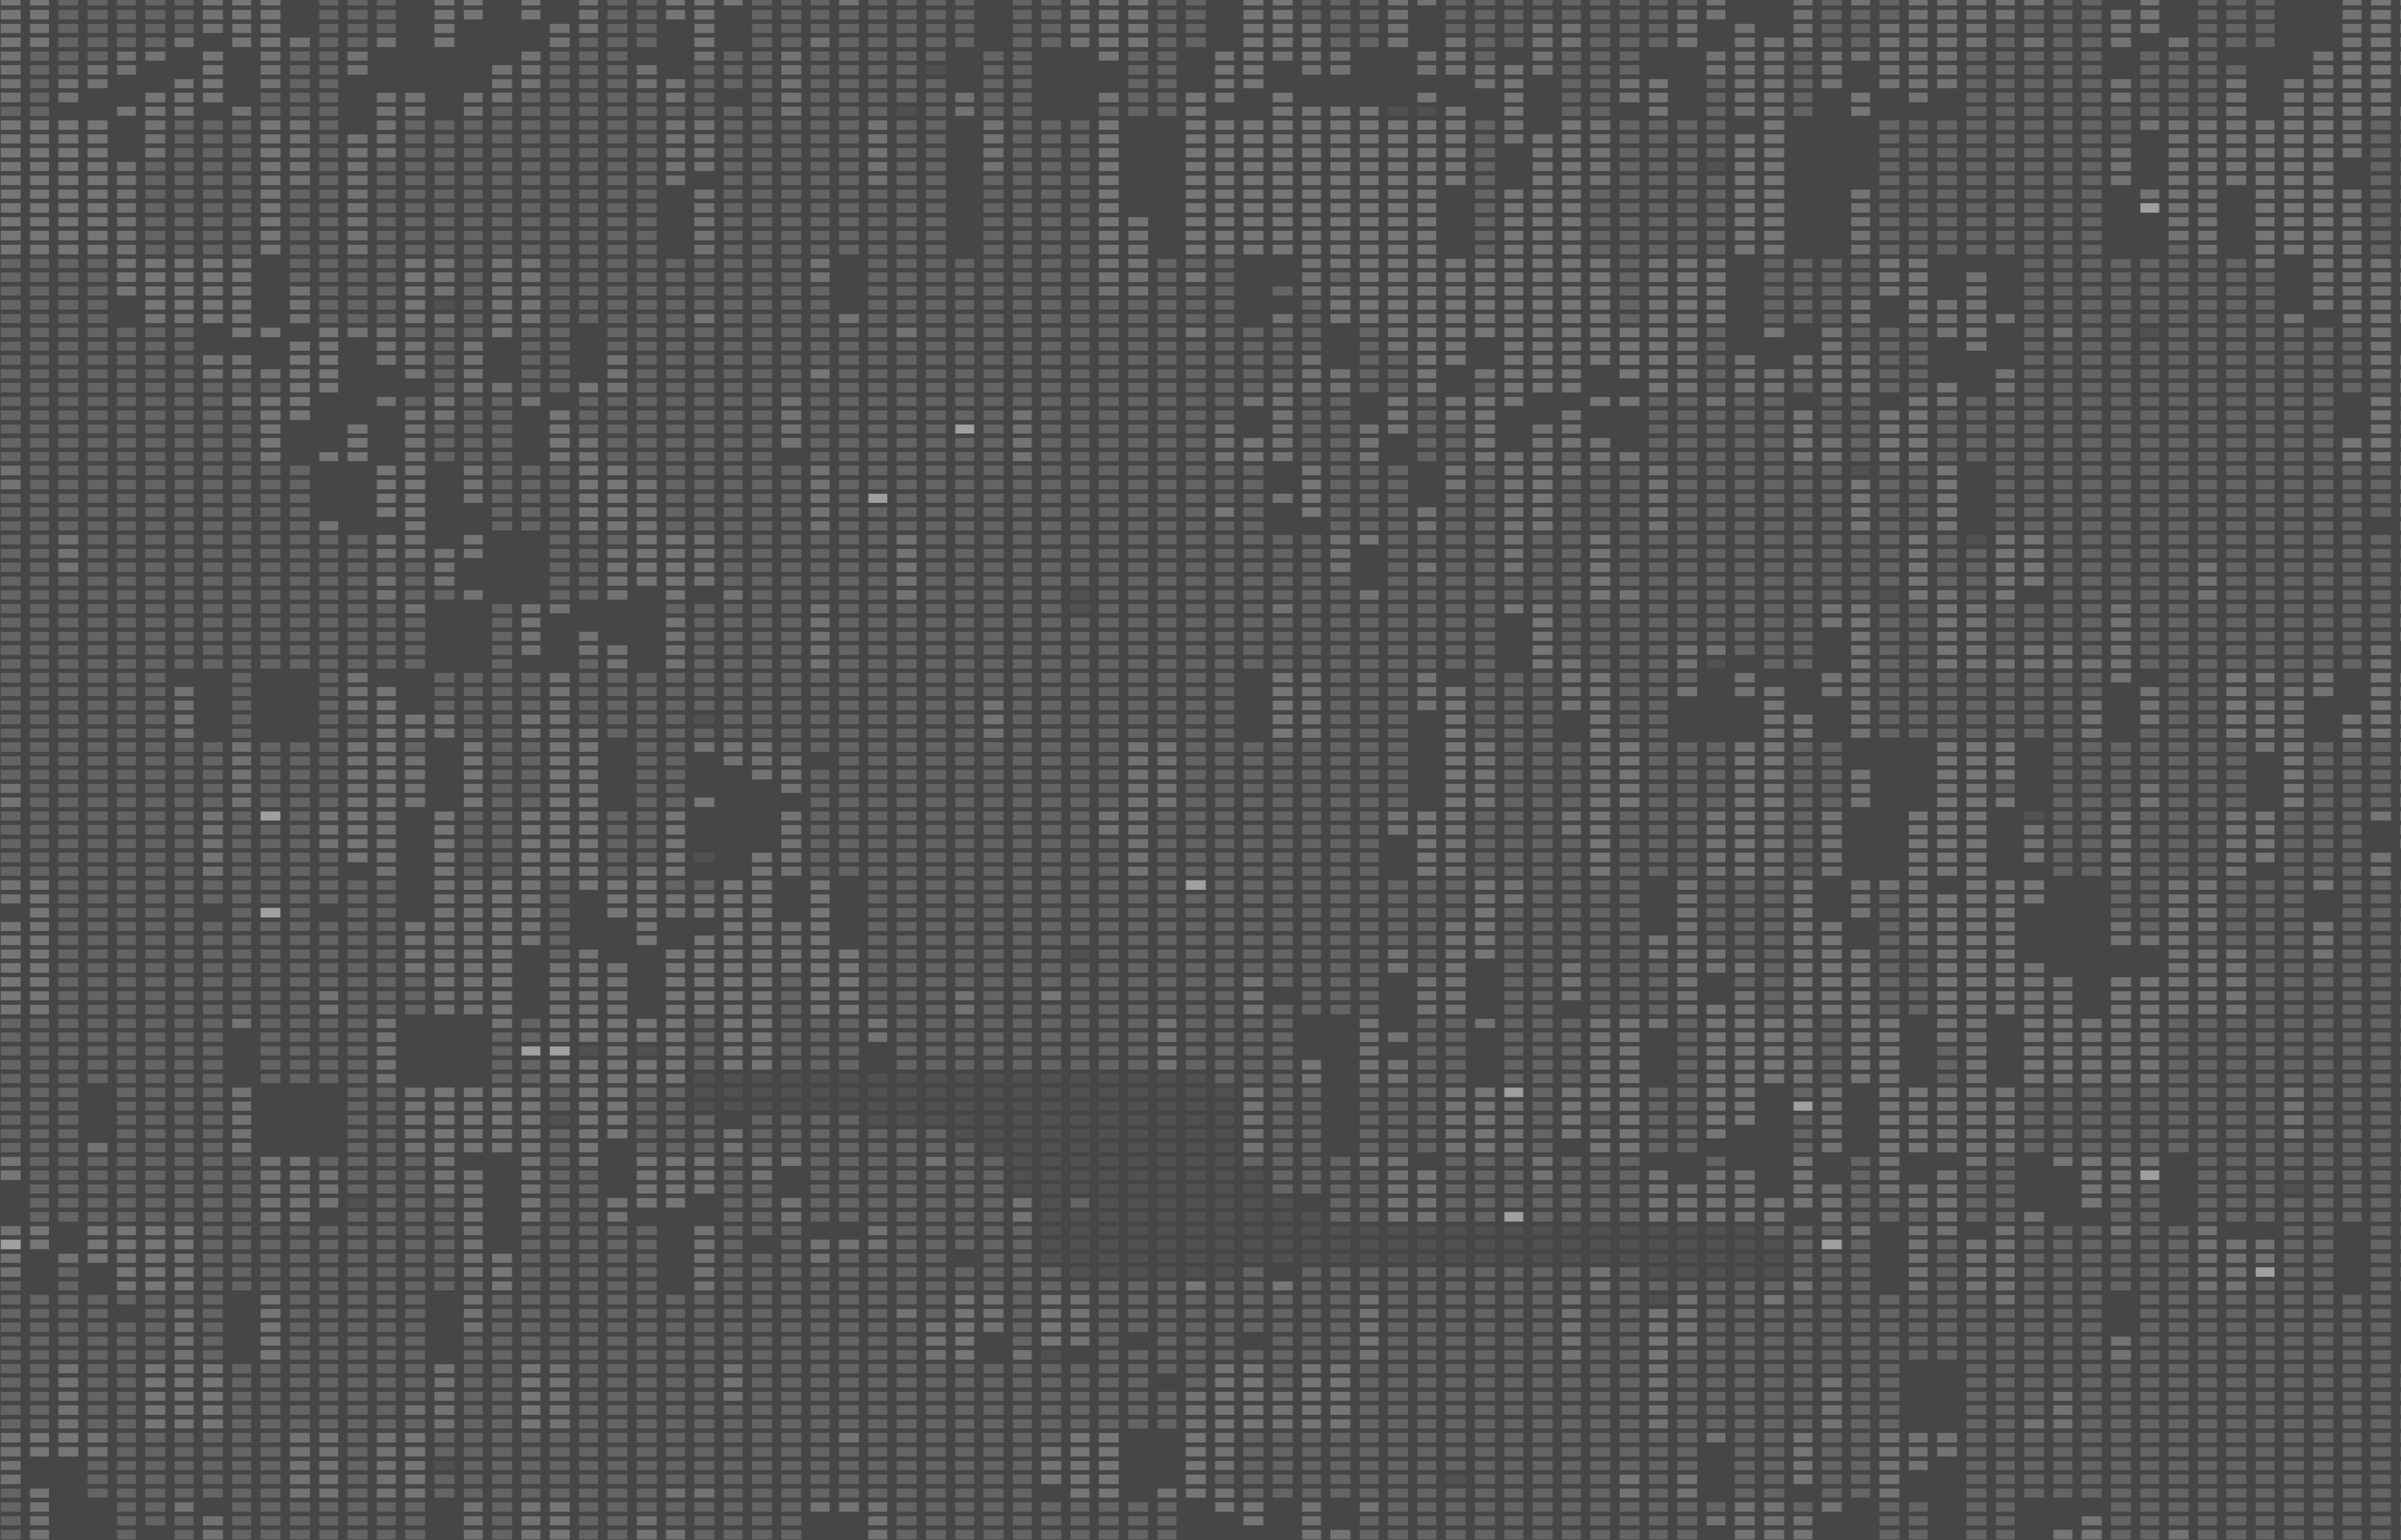
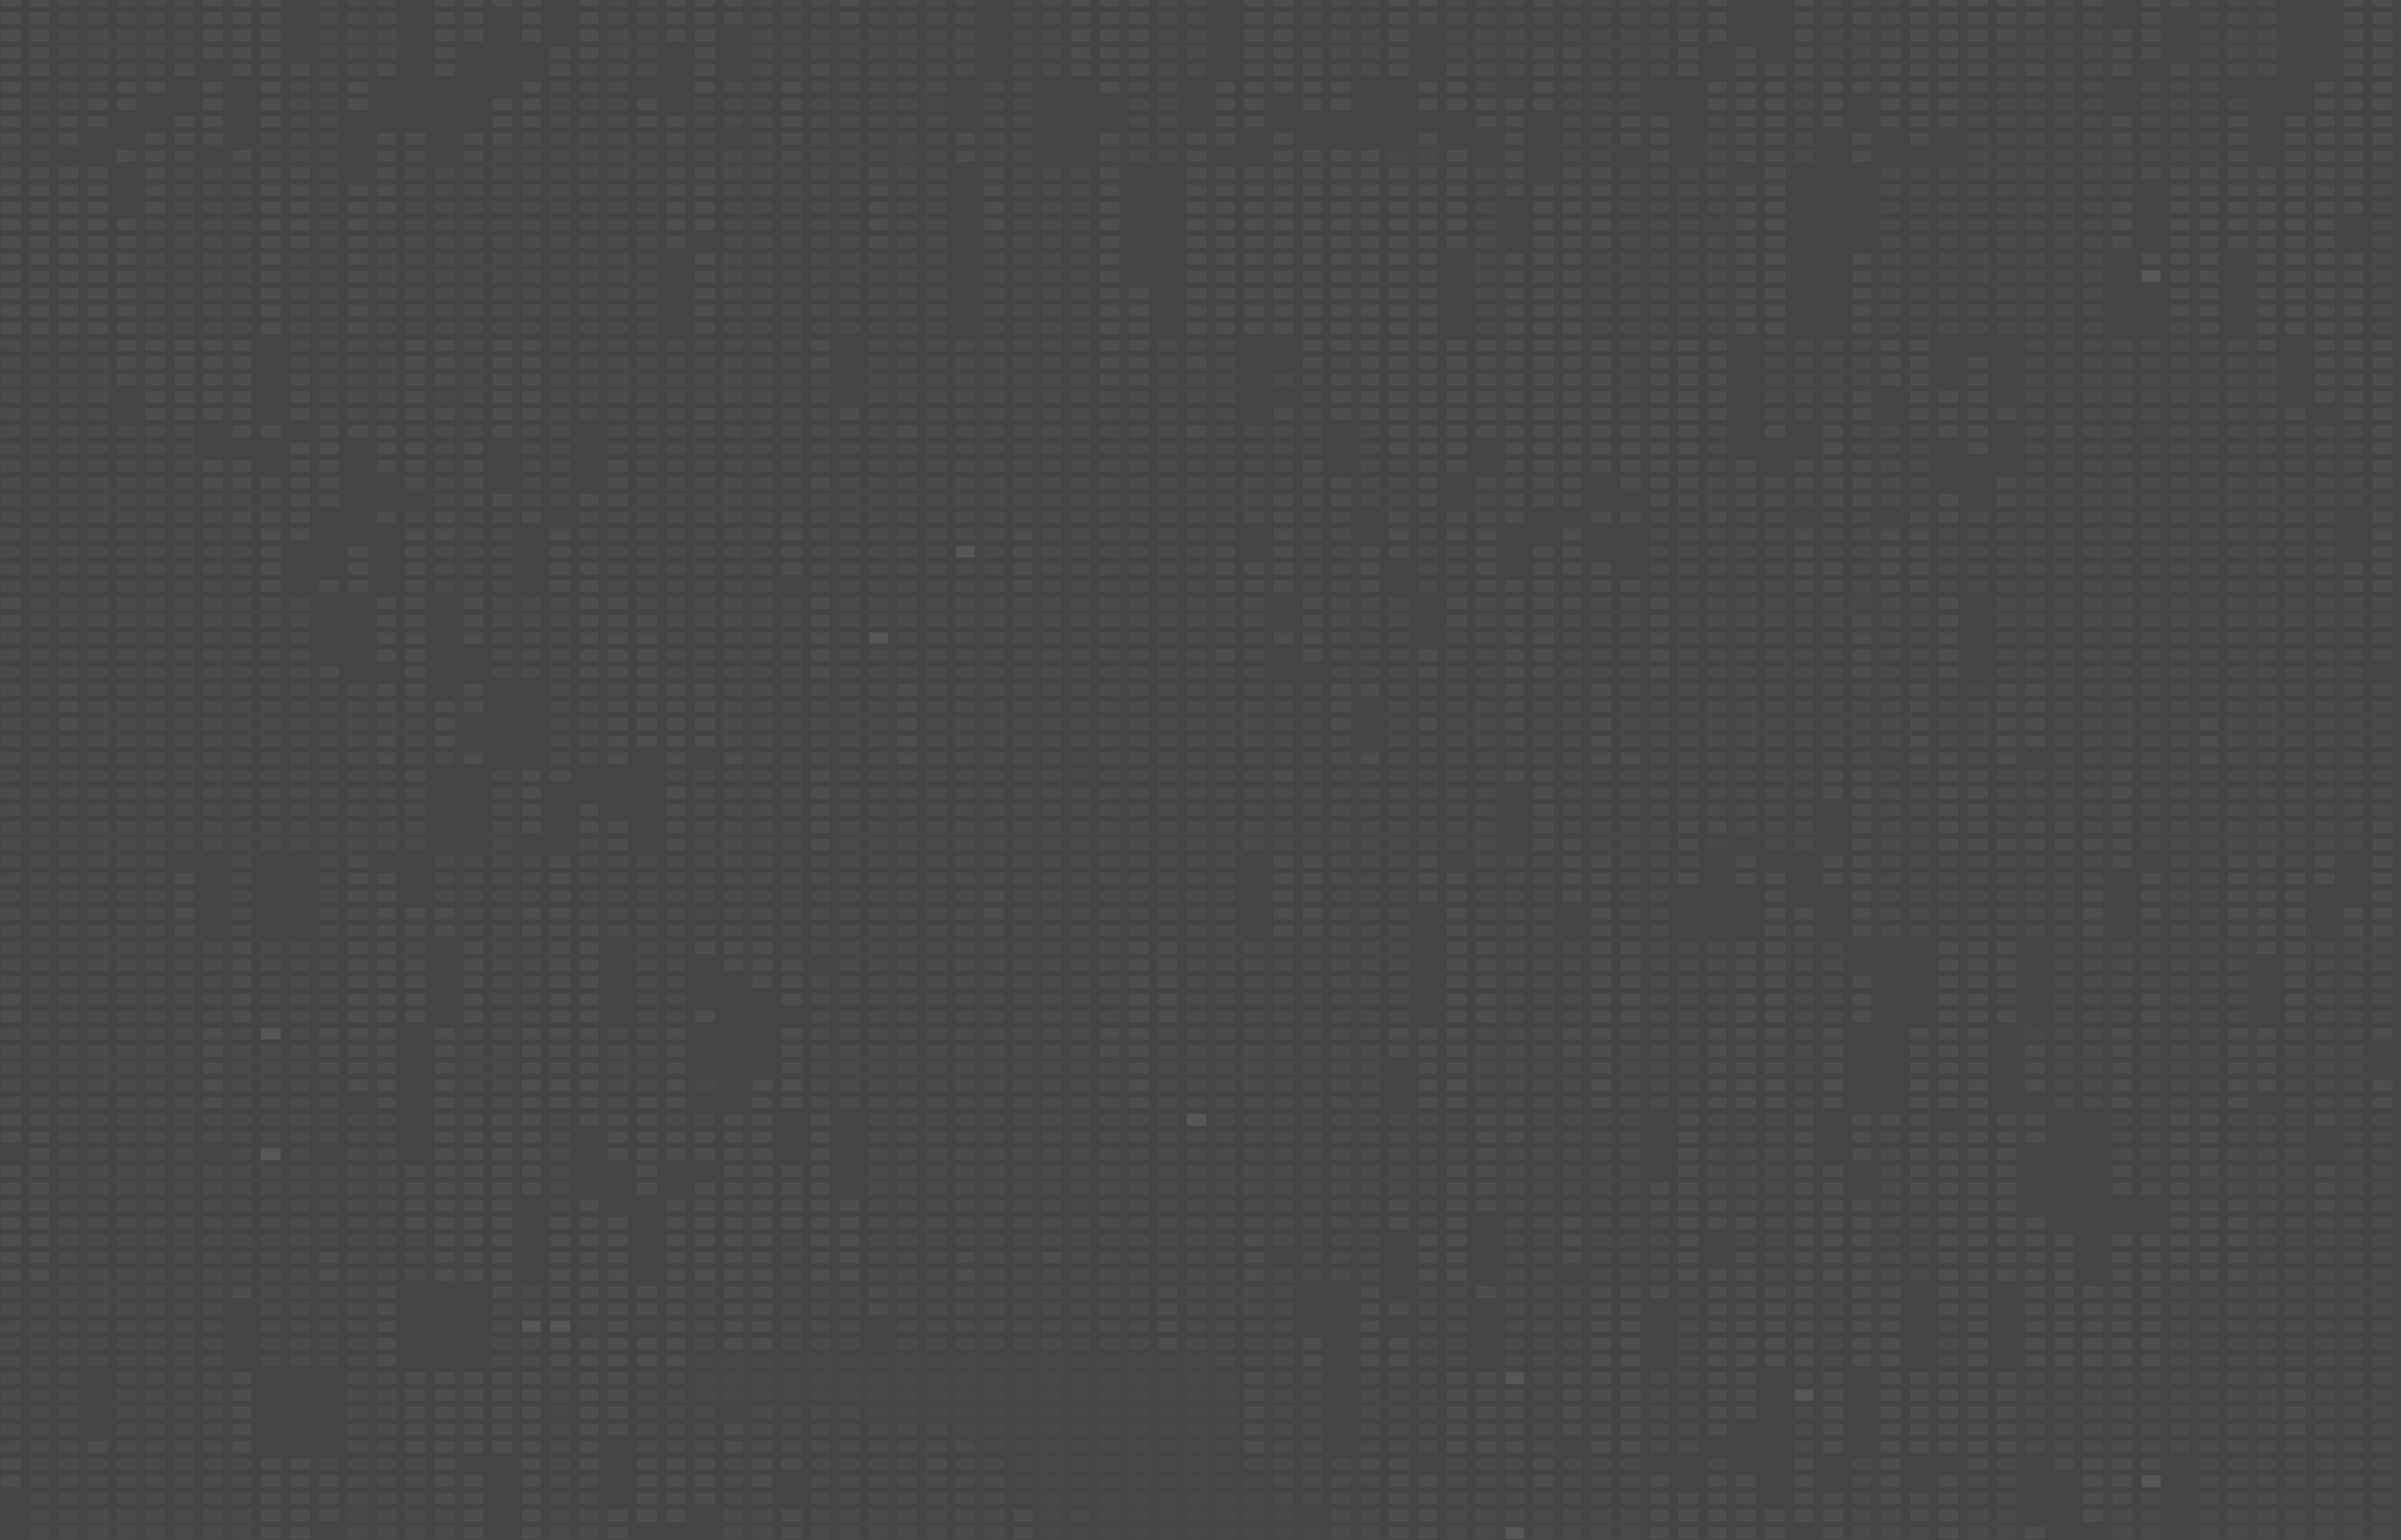
Refine dark backgrounds and text contrast

diff --git a/styles.css b/styles.css
@@ -84,7 +84,7 @@ button:focus-visible,a:focus-visible{outline:2px solid #2e4a7b;outline-offset:4p
 .form-feedback:empty{display:none}
 .essay-link{display:inline-flex;align-items:center;gap:15px;margin-top:24px;color:#4a4a4a;font-size:14px;font-weight:500;line-height:21px;cursor:default}
 .essay-link .arrow{font-size:19px;font-weight:300}
-.app-view,.app-view *{color:#fff!important}
+.home-main,.home-main *:not(input):not(textarea),.detail-main,.detail-main *:not(input):not(textarea){color:#fff!important}
 .detail-main .footer-links{bottom:18px}
 .reveal-words{opacity:1;transform:none}
 .transition-ghost-view{position:fixed;inset:0;z-index:10;width:100%;height:100%;overflow:hidden;pointer-events:none}
